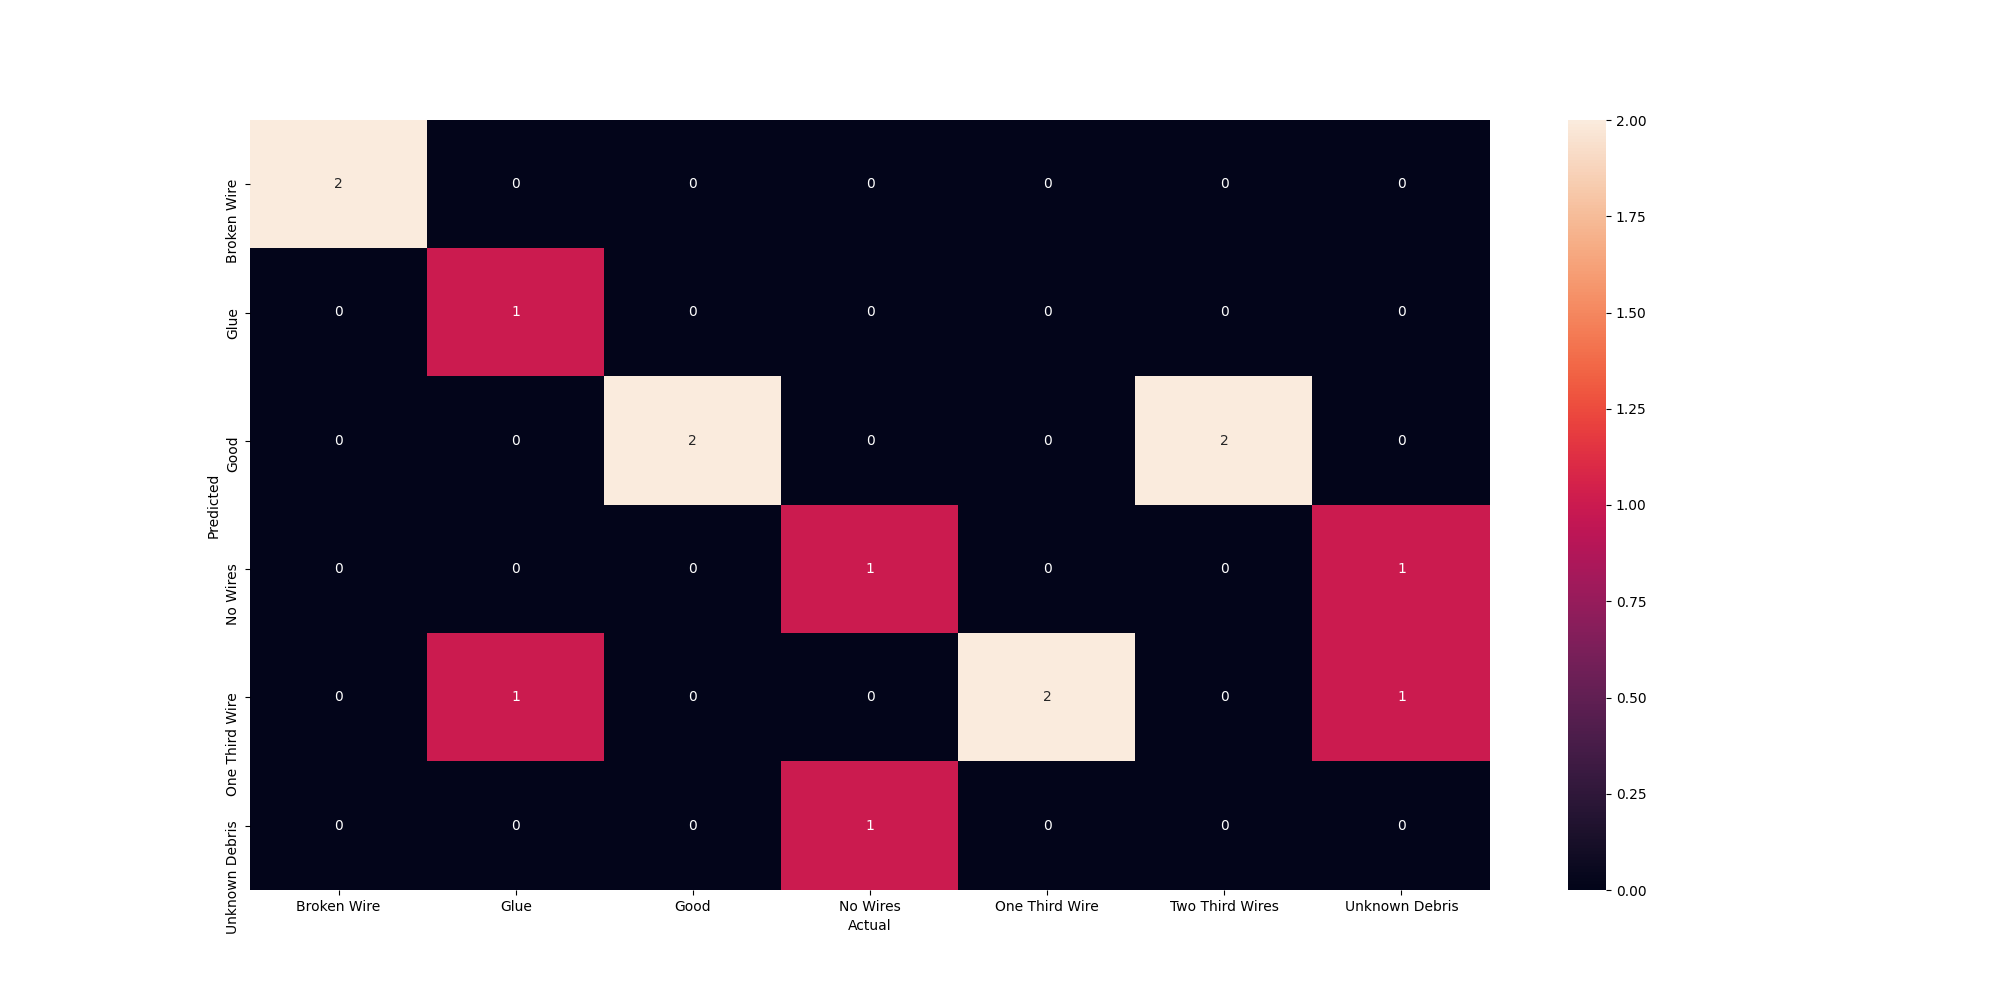
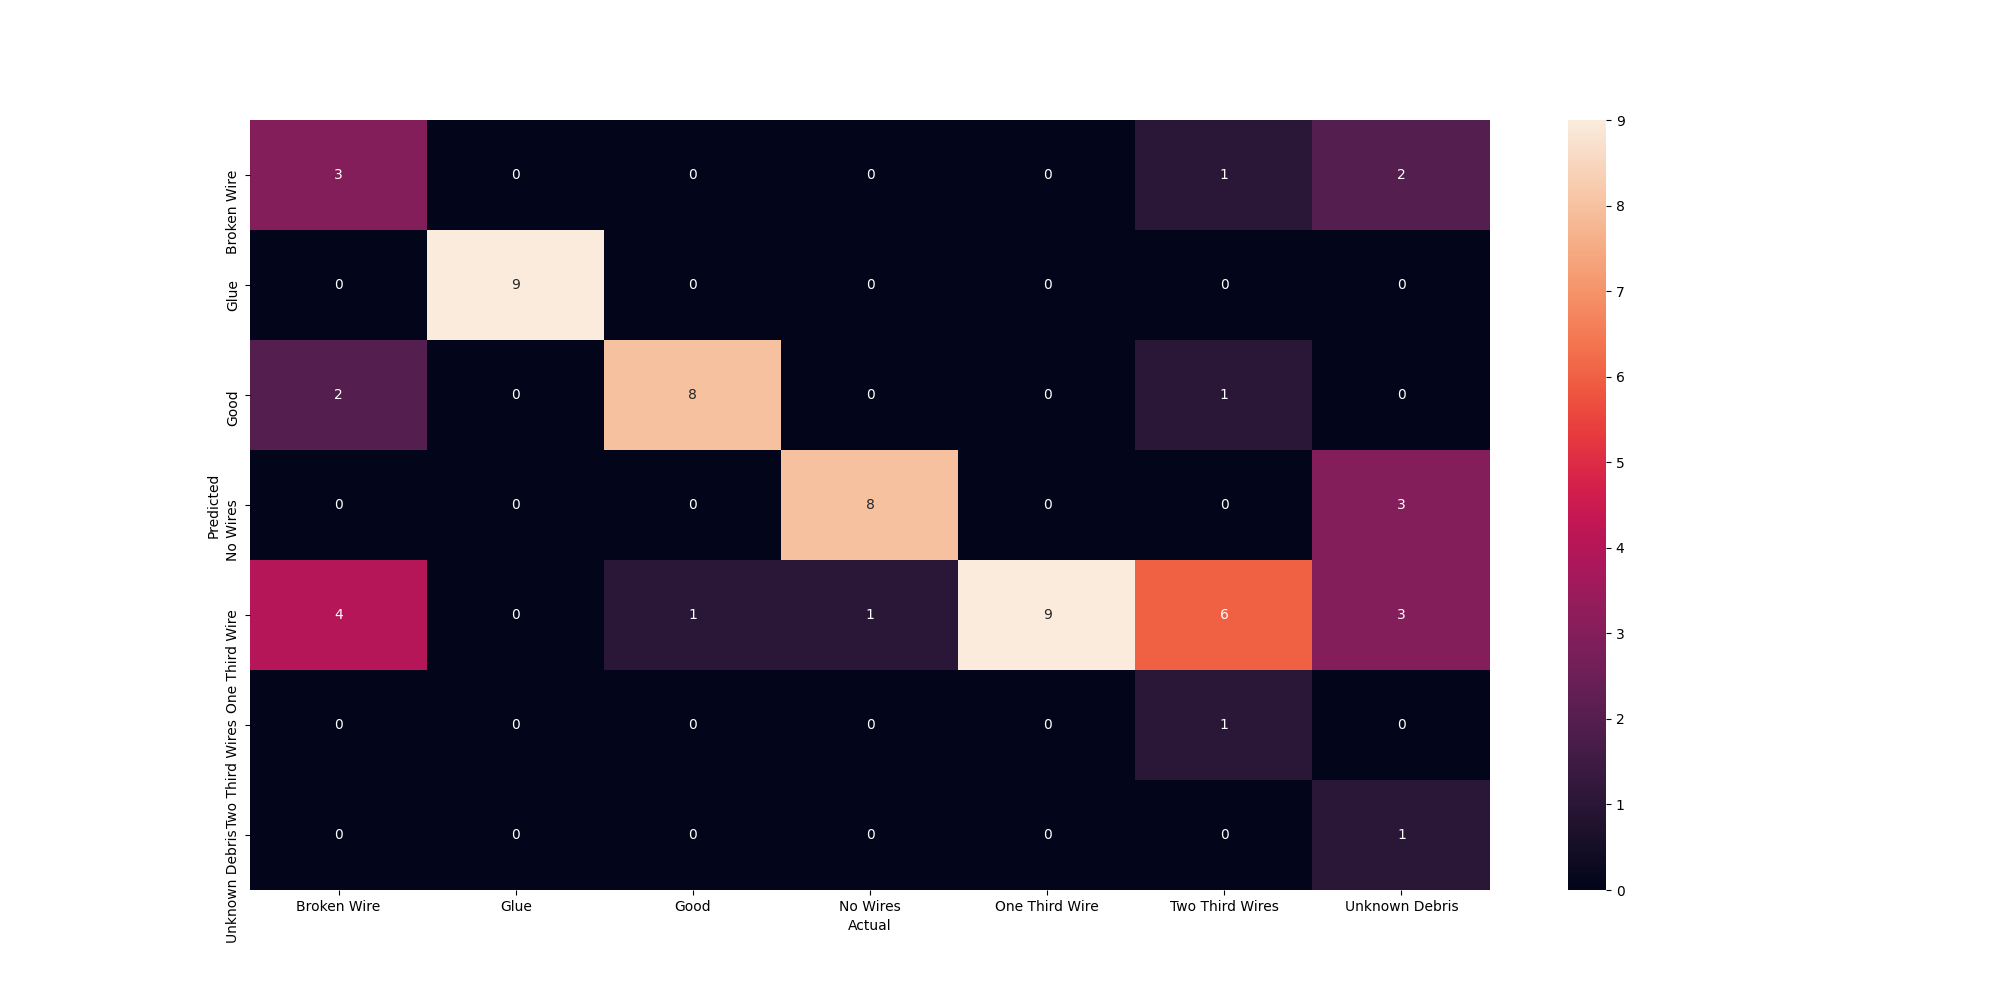
fixed issue #22 by removing normalization layer

Changed region(s): [[0.093, 0.093, 0.744, 0.899], [0.558, 0.093, 0.744, 0.248], [0.093, 0.713, 0.124, 0.775]]

diff --git a/train_model_par.py b/train_model_par.py
@@ -20,10 +20,8 @@ parser.add_option("--l1_2", type="float", dest="l1_2", default=0.007)
 (options, args) = parser.parse_args()
 
 
-#data_dir = "datasets/training" 
 data_dir = "datasets/training" 
 data_dir = pathlib.Path(data_dir)
-#data_dirV = "datasets/validating" 
 data_dirV = "datasets/validating" 
 data_dirV = pathlib.Path(data_dirV)
 
@@ -33,42 +31,21 @@ img_height = 480
 img_width = 480 
 
 
-# train_ds = tf.keras.preprocessing.image_dataset_from_directory(
-#   data_dir,
-#   image_size=(img_height, img_width),
-#   batch_size=batch_size)
-
-# val_ds = tf.keras.preprocessing.image_dataset_from_directory(
-#   data_dirV,
-#   image_size=(img_height, img_width),
-#   batch_size=batch_size)
-
-
 train_ds = tf.keras.preprocessing.image_dataset_from_directory(
   data_dir,
-  # labels='inferred',
-  validation_split=0.2,
-  subset="training",
-  seed=123,
   image_size=(img_height, img_width),
   batch_size=batch_size)
 
 val_ds = tf.keras.preprocessing.image_dataset_from_directory(
-  data_dir,
-  validation_split=0.2,
-  subset="validation",
-  seed=123,
+  data_dirV,
   image_size=(img_height, img_width),
   batch_size=batch_size)
 
 class_names = train_ds.class_names
-class_names = train_ds.class_names
 
-
-print(f'class_names: {class_names}')
 
 # this should be dynamic to the amout of directories there are in data_dir 
-num_classes =  7 # sum([len(folder) for r, d, folder in os.walk(mmmmmmmm)])
+num_classes =  7 # sum([len(folder) for r, d, folder in os.walk(data_dir)])
 print("This data directory has {} subdirectorys".format(num_classes))
 
 from tensorflow.keras.callbacks import EarlyStopping, ReduceLROnPlateau, ModelCheckpoint, CSVLogger
@@ -90,7 +67,7 @@ with strategy.scope():
     layers.MaxPooling2D(),
     layers.Conv2D(32, 3, padding='same', activation='relu'),
     layers.Conv2D(32, 3, padding='same', activation='relu'),
-    layers.Batchation(),
+    layers.BatchNormalization(),
     layers.MaxPooling2D(),
     layers.Conv2D(32, 3, padding='same', activation='relu'),
     layers.Conv2D(32, 3, padding='same', activation='relu'),
@@ -123,16 +100,11 @@ with strategy.scope():
               metrics=['accuracy'])
 
 epochs=100
-#epochs=25
 
 import os
-#save_dir = f'model_checkpoints/d1_{options.d1}_d2_{options.d2}_l1-1_{options.l1_1}_l1-2_{options.l1_2}/'
-#model_name = 'CNNv2.e{epoch:03d}.val_acc_{val_accuracy:01.5f}.h5' 
+save_dir = f'model_checkpoints/d1_{options.d1}_d2_{options.d2}_l1-1_{options.l1_1}_l1-2_{options.l1_2}/'
 
-save_dir = f'model_checkpoints/JD_CNN_v1/'
 model_name = 'CNNv2.e{epoch:03d}.val_acc_{val_accuracy:01.5f}.h5' 
-print(f"MODEL_NAME HERE LINE 114: {model_name}")
-
 if not os.path.isdir(save_dir):
     os.makedirs(save_dir)
 filepath = os.path.join(save_dir, model_name)
@@ -144,8 +116,7 @@ early = EarlyStopping(monitor="val_loss",
                       mode="min", patience=12)
 
 csv_logger = CSVLogger('model_loger.csv', append=True, separator=',')
-#callbacks_list = [checkpoint, early, csv_logger]
-callbacks_list = [checkpoint, csv_logger]
+callbacks_list = [checkpoint, early, csv_logger]
 
 
 history = model.fit(
@@ -173,21 +144,18 @@ def show_model_details():
   epochs_range = range(epochs)
 
   plt.figure(figsize=(8, 8))
-  #plt.subplot(1, 2, 1)
-  plt.subplot(2, 1, 1)
+  plt.subplot(1, 2, 1)
   plt.plot(epochs_range, acc, label='Training Accuracy')
   plt.plot(epochs_range, val_acc, label='Validation Accuracy')
   plt.legend(loc='lower right')
   plt.title('Training and Validation Accuracy')
 
-  #plt.subplot(1, 2, 2)
-  plt.subplot(2, 1, 2)
+  plt.subplot(1, 2, 2)
   plt.plot(epochs_range, loss, label='Training Loss')
   plt.plot(epochs_range, val_loss, label='Validation Loss')
   plt.legend(loc='upper right')
   plt.title('Training and Validation Loss')
   plt.show()
-  plt.savefig('performance.png')  
 
 
 show_model_details()

diff --git a/augment_imgs.py b/augment_imgs.py
@@ -18,7 +18,7 @@ from scripts import separate_datasets as sd
 from PIL import ImageOps
 # Remove all dotfiles from currend dir 
 
-def main(copy_datasets=True, separate_datasets=True, root_dir="datasets/training", imgs_per_dir=200 ):
+def main(copy_datasets=False, separate_datasets=False, root_dir="datasets/testing", imgs_per_dir=50):
 
     subprocess.run("find datasets -type f -name '\.*' -delete", shell=True)
     subprocess.run("find . -name '.DS_Store' -type f -delete", shell=True)
@@ -31,7 +31,6 @@ def main(copy_datasets=True, separate_datasets=True, root_dir="datasets/training
     if separate_datasets == True:
         sd.main()
 
-
     if not os.path.isdir(root_dir):
         print('The path specified does not exist')
         sys.exit()
@@ -41,12 +40,12 @@ def main(copy_datasets=True, separate_datasets=True, root_dir="datasets/training
     for sub_dir in target_dirs: 
         print(sub_dir)
         images_path = f"{root_dir}/{sub_dir}"
-        augment(images_path, imgs_per_dir=imgs_per_dir)
+        augment(images_path, imgs_per_dir)
 
 
 
 
-def augment(images_path, imgs_per_dir=1000):
+def augment(images_path, imgs_per_dir):
     transformations = {
                         'horizontal flip': h_flip, 
                         'vertical flip': v_flip,
@@ -80,10 +79,7 @@ def augment(images_path, imgs_per_dir=1000):
         image = random.choice(images)
         print(image,type(image))
         original_image = io.imread(image)
-        # try: 
-        #     original_image = io.imread(image)
-        # except ValueError:
-        #     pass
+
 
         transformed_image = None
  
@@ -150,8 +146,6 @@ def warp_shift(image):
     transform = AffineTransform(translation=(0,40))  #chose x,y values according to your convinience
     warp_image = warp(image, transform, mode="wrap")
     return warp_image
-
-
 
 
 

diff --git a/test_model.py b/test_model.py
@@ -167,7 +167,8 @@ def test_all_imgs(model, class_names, test_data_path, size):
     image = Image.open(img_path)
     image = ImageOps.fit(image, size, Image.ANTIALIAS)
     image_array = np.asarray(image)
-    normalized_image_array = (image_array.astype(np.float32) / 127.0) - 1
+    # normalized_image_array = (image_array.astype(np.float32) / 127.0) - 1
+    normalized_image_array = image_array.astype(np.float32)
     data[0] = normalized_image_array
     prediction = model.predict(data)
     label_prediction = np.argmax(prediction[0])
@@ -215,7 +216,8 @@ def random_test_plot(model, class_names, test_data_path, model_name, size, show=
         image = Image.open(img_path)
         image = ImageOps.fit(image, size, Image.ANTIALIAS)
         image_array = np.asarray(image)
-        normalized_image_array = (image_array.astype(np.float32) / 127.0) - 1
+        # normalized_image_array = (image_array.astype(np.float32) / 127.0) - 1
+        normalized_image_array = image_array.astype(np.float32)
         data[0] = normalized_image_array
         prediction = probability_model.predict(data)
 

diff --git a/notes/05_26_11:21:58PM.md b/notes/05_26_11:21:58PM.md
@@ -1,20 +1,22 @@
-## 05_19_6:56:45PM 
+## 05_26_11:21:58PM 
+
+This one was pulled from server
 
 ## Stats 
 ```
 Total Tests: 343
-correct predictions: 140
-incorrect predictions: 203
-Percentage correct: 40.82%
+correct predictions: 109
+incorrect predictions: 234
+Percentage correct: 31.78%
 =======================
 Most missed predictions
-Broken Wire:  31
-Glue:  12
-Good:  38
-No Wires:  31
-One Third Wire:  18
-Two Third Wires:  42
-Unknown Debris:  31
+Broken Wire:  49
+Glue:  26
+Good:  46
+No Wires:  26
+One Third Wire:  1
+Two Third Wires:  49
+Unknown Debris:  37
 ``` 
 ### Model Summary 
 ```Model: "sequential"
@@ -89,6 +91,6 @@ Non-trainable params: 64
 _________________________________________________________________
 ``` 
 ### Confusion Matrix 
-![Confusion Matrix](imgs/05_19_6:56:45PM.png) 
+![Confusion Matrix](imgs/05_26_11:21:58PM.png) 
 ### Random Samples 
-![Random Samples](imgs/rand_samples_05_19_6:56:45PM.png) 
+![Random Samples](imgs/rand_samples_05_26_11:21:58PM.png) 

diff --git a/notes/06_02_1:14:57PM.md b/notes/06_02_1:14:57PM.md
@@ -1,20 +1,19 @@
-## 05_19_6:56:45PM 
+## 06_02_1:14:57PM 
 
 ## Stats 
 ```
 Total Tests: 343
-correct predictions: 140
-incorrect predictions: 203
-Percentage correct: 40.82%
+correct predictions: 49
+incorrect predictions: 294
+Percentage correct: 14.29%
 =======================
 Most missed predictions
-Broken Wire:  31
-Glue:  12
-Good:  38
-No Wires:  31
-One Third Wire:  18
-Two Third Wires:  42
-Unknown Debris:  31
+Broken Wire:  49
+Glue:  49
+Good:  49
+No Wires:  49
+One Third Wire:  49
+Unknown Debris:  49
 ``` 
 ### Model Summary 
 ```Model: "sequential"
@@ -89,6 +88,6 @@ Non-trainable params: 64
 _________________________________________________________________
 ``` 
 ### Confusion Matrix 
-![Confusion Matrix](imgs/05_19_6:56:45PM.png) 
+![Confusion Matrix](imgs/06_02_1:14:57PM.png) 
 ### Random Samples 
-![Random Samples](imgs/rand_samples_05_19_6:56:45PM.png) 
+![Random Samples](imgs/rand_samples_06_02_1:14:57PM.png) 

diff --git a/notes/05_20_7:49:27PM.md b/notes/05_20_7:49:27PM.md
@@ -2,16 +2,17 @@
 
 ## Stats 
 ```
-Total Tests: 14
-correct predictions: 8
-incorrect predictions: 6
-Percentage correct: 57.14%
+Total Tests: 63
+correct predictions: 39
+incorrect predictions: 24
+Percentage correct: 61.9%
 =======================
 Most missed predictions
-Glue:  1
+Broken Wire:  6
+Good:  1
 No Wires:  1
-Two Third Wires:  2
-Unknown Debris:  2
+Two Third Wires:  8
+Unknown Debris:  8
 ``` 
 ### Model Summary 
 ```Model: "sequential_1"
